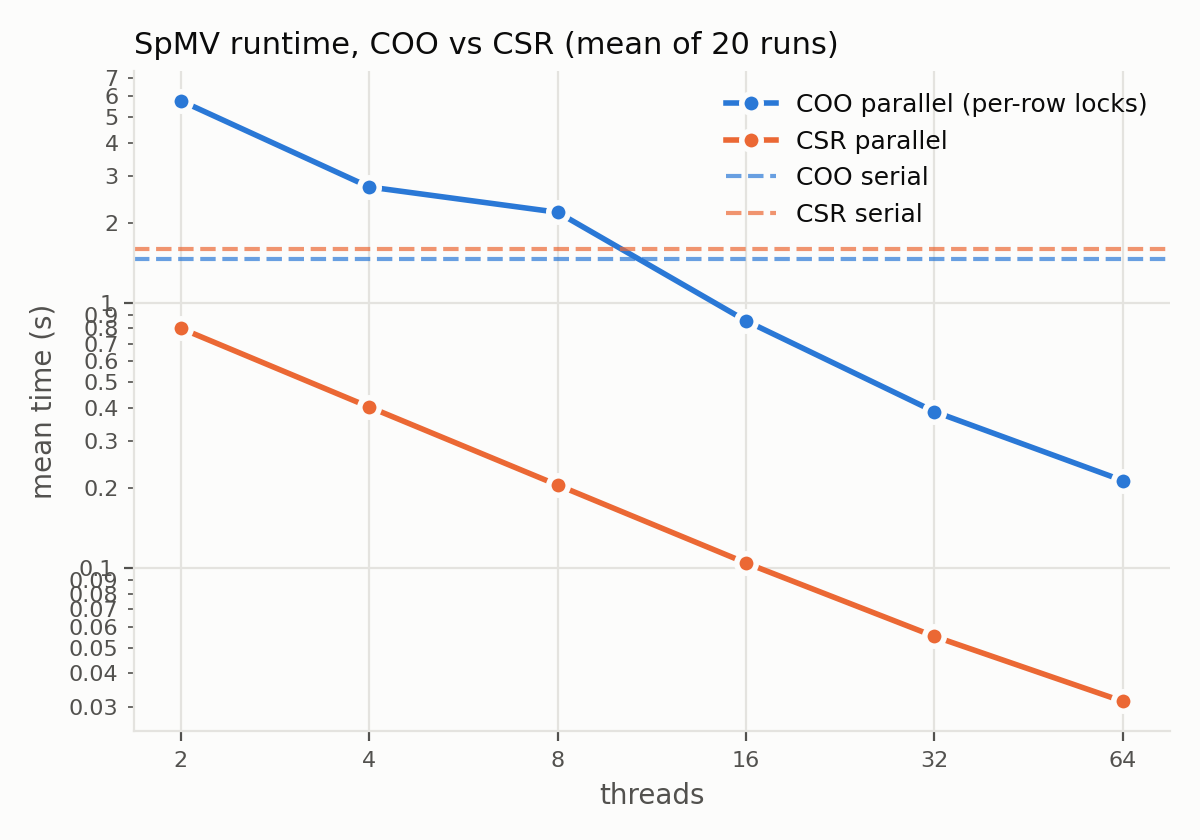
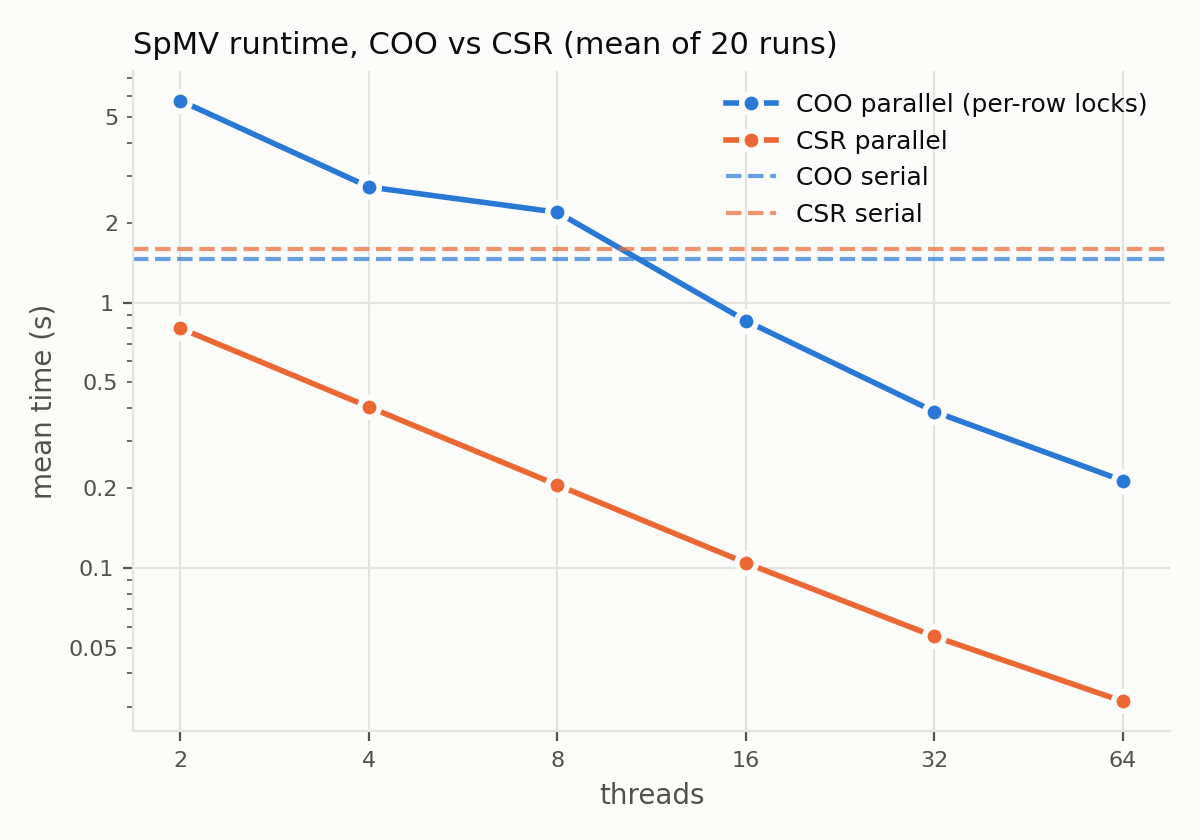
Edit analyze, graphs looked a little off

diff --git a/homework03/analyze.py b/homework03/analyze.py
@@ -82,6 +82,8 @@ BLUE = "#2a78d6"     # COO
 ORANGE = "#eb6834"   # CSR
 
 plain = FuncFormatter(lambda v, _: f"{v:g}")
+# on the log axis, only label minor ticks starting with 2 or 5 so they don't overlap
+sparse = FuncFormatter(lambda v, _: f"{v:g}" if f"{v:.0e}"[0] in "25" else "")
 
 def style(ax, ylabel, title):
     ax.set_facecolor(SURFACE)
@@ -90,7 +92,7 @@ def style(ax, ylabel, title):
     ax.set_xticks(counts)
     ax.set_xticklabels(counts)
     ax.yaxis.set_major_formatter(plain)
-    ax.yaxis.set_minor_formatter(plain)
+    ax.yaxis.set_minor_formatter(sparse)
     ax.set_xlabel("threads", color=INK2)
     ax.set_ylabel(ylabel, color=INK2)
     ax.set_title(title, color=INK, loc="left", fontsize=11)
